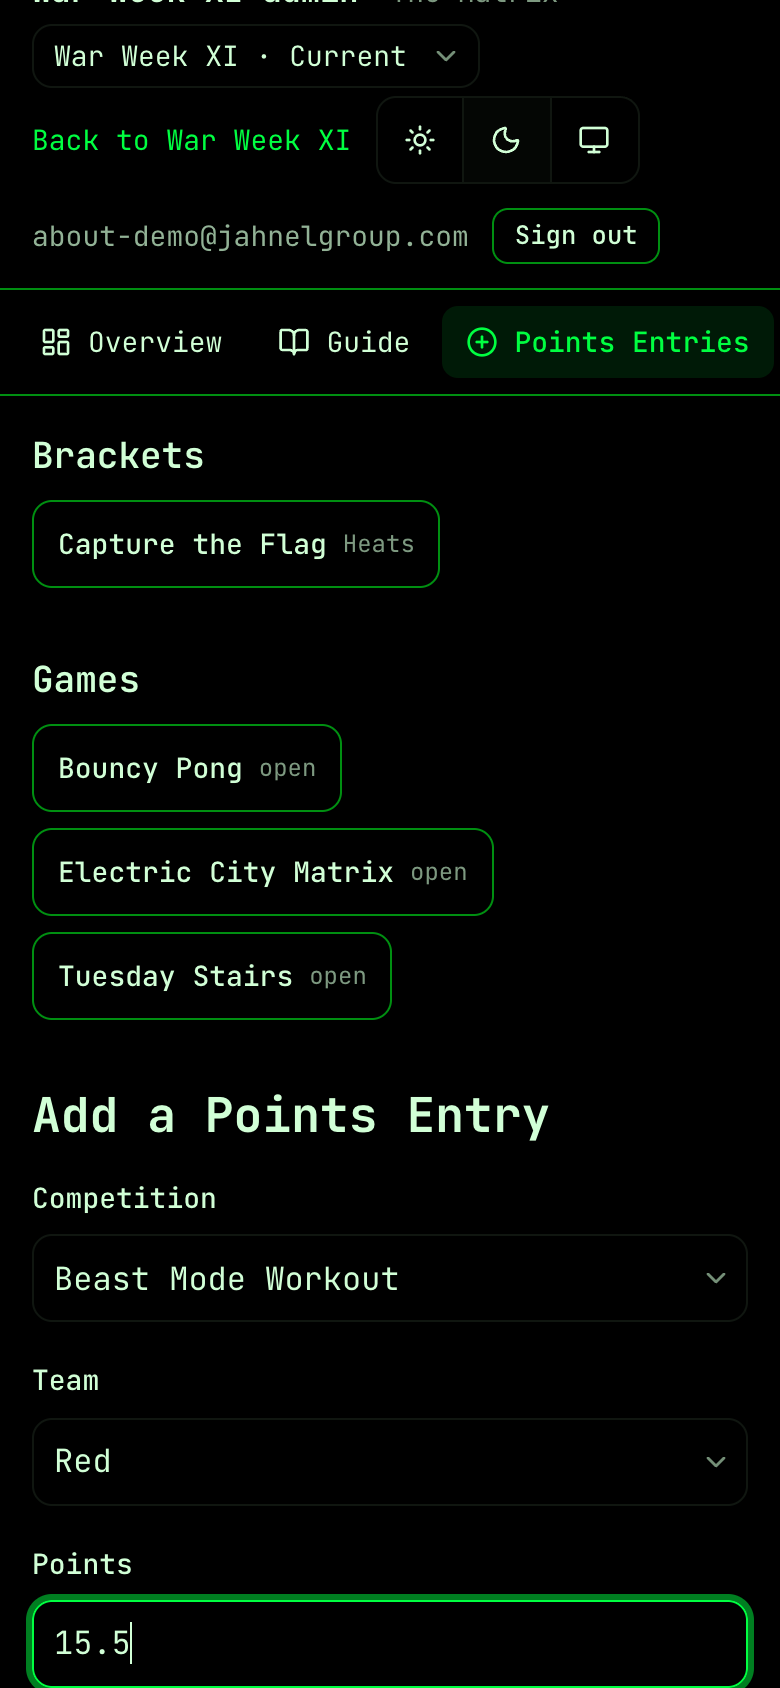
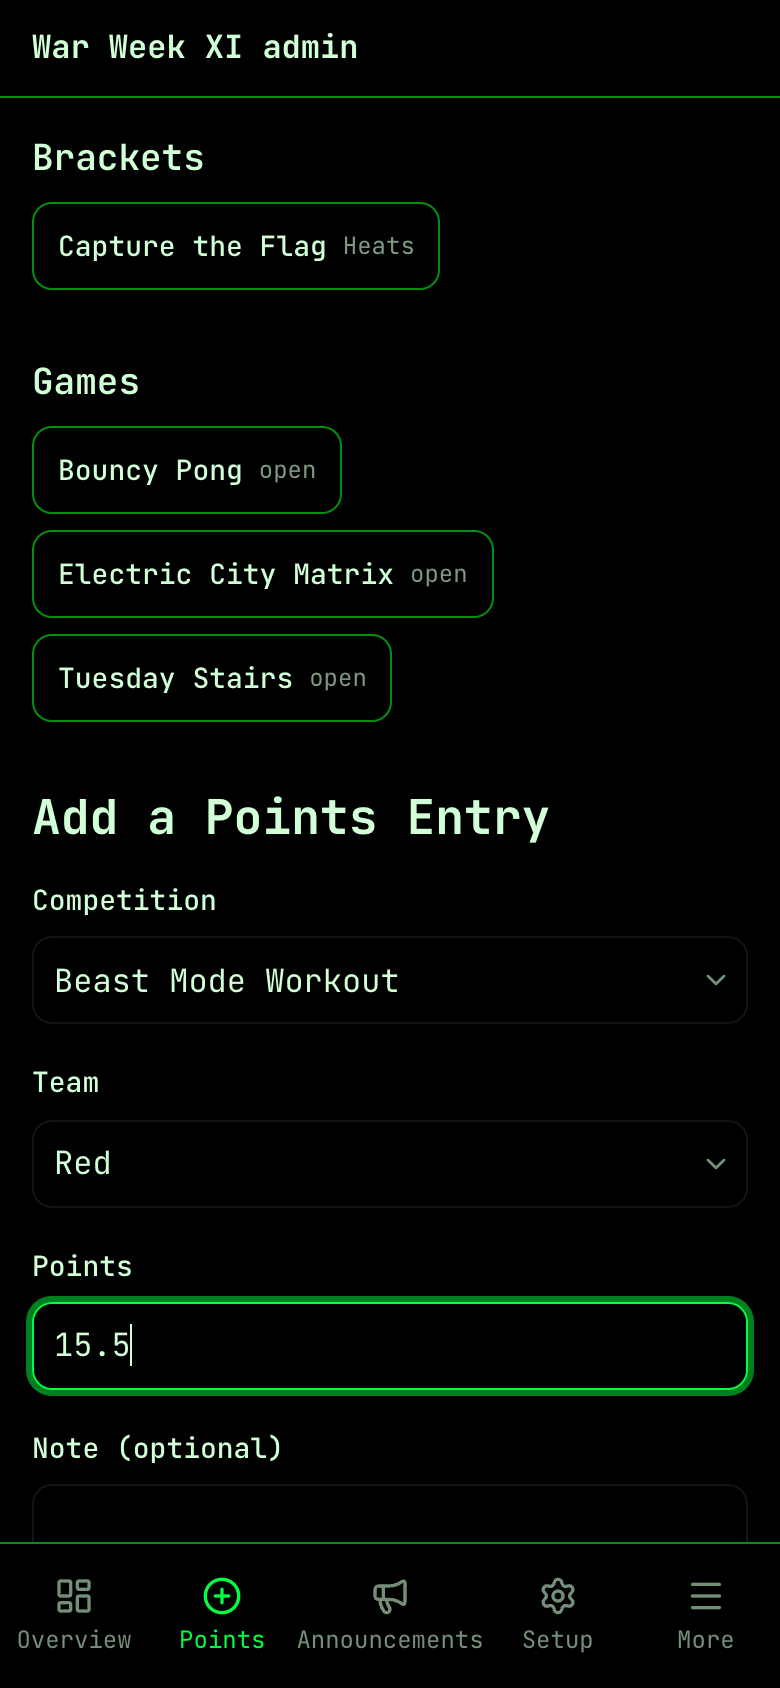
feat(regression-r5): epic-wide admin phone check; guide and /about updated (DE)

diff --git a/src/lib/about.ts b/src/lib/about.ts
@@ -47,7 +47,7 @@ export const ABOUT_FEATURES = [
   {
     slug: "organizer-setup",
     title: "Organizer setup, no code",
-    text: "War Week, Days, Teams, roster, Competitions, schedule and FAQ are all Organizer screens under Admin. Organizers can hand a Competition to its Hosts, who see just that Competition and enter its points themselves. Next year's edition takes an afternoon, not a code editor.",
+    text: "War Week, Days, Teams, roster, Competitions, schedule and FAQ are all Organizer screens under Admin. Organizers can hand a Competition to its Hosts, who see just that Competition and enter its points themselves. Admin works from a phone too, with a bar of sections along the bottom and each Setup row opening in a Sheet. Next year's edition takes an afternoon, not a code editor.",
     alt: "The Admin Setup screen listing War Week, Days, Teams, Competitions, Schedule and FAQ.",
   },
   {
@@ -71,7 +71,7 @@ export const ABOUT_FEATURES = [
   {
     slug: "brackets",
     title: "Brackets for knockouts and Heats",
-    text: "Choose a Competition's Format — Single elimination or Heats — when you add it, land straight on its Bracket setup, pick its Entrants (Teams, Participants, or Squads: named groups from one Team whose points go to that Team) and Generate a Bracket, or draw its Seed Positions By Standings. The Bracket reads as a tree on the Competition page: Rounds left to right for single elimination, or a box per Heat with advancers highlighted, one Round at a time on a phone; a List toggle keeps the old view. Recording or reporting a Heat's result opens a dialog centered on a screen and a bottom sheet on a phone. Finalize turns the Bracket's placings straight into Points Entries, and the Bracket gets its own Finale for the projector. Flip on \"Participants can enroll\" and players add themselves as Entrants instead of the Host typing every name in.",
+    text: "Choose a Competition's Format — Single elimination or Heats — when you add it, land straight on its Bracket setup, pick its Entrants (Teams, Participants, or Squads: named groups from one Team whose points go to that Team) and Generate a Bracket, or draw its Seed Positions By Standings. The Bracket reads as a tree on the Competition page: Rounds left to right for single elimination, or a box per Heat with advancers highlighted and its time and place, one Round at a time on a phone; a List toggle keeps the old view. Recording or reporting a Heat's result opens a dialog centered on a screen and a bottom sheet on a phone. Finalize turns the Bracket's placings straight into Points Entries, and the Bracket gets its own Finale for the projector. Flip on \"Participants can enroll\" and players add themselves as Entrants instead of the Host typing every name in.",
     alt: "A Bracket shown as a tree on its Competition page: Rounds joined by lines, with results filled in live.",
   },
   {

diff --git a/e2e/regression-r5.spec.ts b/e2e/regression-r5.spec.ts
@@ -950,3 +950,70 @@ test("r5 38 Escape keeps chosen Entrants; Tree shows a Heat's place; Format help
     await deleteXiCompetition(name);
   }
 });
+
+const EPIC_PAGES = [
+  { path: "/admin", slug: "overview", hostSees: true },
+  { path: "/admin/points", slug: "points", hostSees: true },
+  { path: "/admin/setup/teams", slug: "teams", hostSees: false },
+  { path: "/admin/setup/competitions", slug: "competitions", hostSees: true },
+  { path: "/admin/setup/war-week", slug: "war-week", hostSees: false },
+  { path: "/admin/announcements", slug: "announcements", hostSees: true },
+  { path: "/admin/awards", slug: "awards", hostSees: false },
+];
+
+test("r5 epic admin pages at 375 and 1280, as Organizer and Host", async ({
+  context,
+  page,
+}, testInfo) => {
+  test.setTimeout(180_000);
+  const competitionId = await xiCompetitionId("Pool");
+  const refusal = page.getByRole("heading", {
+    name: "Organizers and Hosts only.",
+  });
+
+  async function visit(role: "organizer" | "host") {
+    for (const viewport of [PHONE, DESKTOP]) {
+      await page.setViewportSize(viewport);
+      for (const { path, slug, hostSees } of EPIC_PAGES) {
+        await page.goto(path);
+        const sees = role === "organizer" || hostSees;
+        const label = `${role} ${path} at ${viewport.width}`;
+        if (sees) {
+          await expect(refusal, label).toHaveCount(0);
+          await expect(page.locator("main").first(), label).toBeVisible();
+          if (viewport.width === PHONE.width) {
+            await expect(adminBar(page), label).toHaveCount(1);
+            expect(
+              await page.evaluate(
+                () => document.documentElement.scrollWidth <= window.innerWidth,
+              ),
+              `${label} scrolls sideways`,
+            ).toBe(true);
+          }
+        } else {
+          await expect(refusal, label).toBeVisible();
+        }
+        await shoot(page, testInfo, `${role}-${slug}-${viewport.width}`, true);
+      }
+    }
+  }
+
+  try {
+    await asOrganizer(context);
+    await visit("organizer");
+
+    await runQuery(
+      `insert into competition_host (competition_id, email) values ($1, $2)
+       on conflict do nothing`,
+      [competitionId, E2E_HOST_EMAIL],
+    );
+    await context.clearCookies();
+    await asHost(context);
+    await visit("host");
+  } finally {
+    await runQuery(
+      `delete from competition_host where competition_id = $1 and email = $2`,
+      [competitionId, E2E_HOST_EMAIL],
+    );
+  }
+});

diff --git a/docs/maintainers-guide.md b/docs/maintainers-guide.md
@@ -178,6 +178,16 @@ Organizer screens cover it. Sign in and go to `/admin`:
   screen's scheme — each picks their own Display (Light, Dark or System)
   from the header menu (the phone More Sheet, the desktop TopNav, or the
   Admin header).
+- **On a phone**, the admin sections are a bar fixed to the bottom of the
+  screen (Overview, Points, Announcements, Setup, More); More opens a Sheet
+  with the other sections you can see, the edition switcher, Display and
+  your account. From `md` up it is the side column and header as before.
+  The sections live in `src/lib/admin-sections.ts`.
+- **Setup rows open in a Sheet.** On Teams & roster and Competitions, each
+  row is one "Edit <name>" button that opens its form in a
+  `ResponsiveSheetDialog`, with Save and Delete in a sticky footer; "Add …"
+  opens the empty form. "Assign Hosts" (the Hosts field) is inside the
+  Competition's Sheet.
 - **`/admin/organizers`**: the Organizer list (see
   [Add an Organizer or assign Hosts](#add-an-organizer-or-assign-hosts)).
 - **`/admin/points`**, **`/admin/standings`** (Run the Finale: "Open Finale" at closing ceremonies, and "Finale: <Competition>" for each finalized Bracket),
@@ -429,6 +439,17 @@ Notes:
   (a centered Dialog at `lg` and up, a bottom Sheet below) — live in
   `src/components/`. Reach for one of those before building a new control.
   Only `EntityCombobox` does search and chips.
+- Below `sm`, every admin control is at least 44px tall and wide
+  (`min-h-11 min-w-11 sm:min-h-0 sm:min-w-0`), the pattern `Input`, the
+  combobox and the Setup buttons follow. The shadcn select trigger's
+  default height is now 44px below `sm` and 36px from `sm` (an edit in
+  `ui/select.tsx`), so it sits level with an `Input`, and its list opens
+  below the trigger rather than over the field above it.
+- A long admin form puts its submit row in `StickyFormActions`
+  (`src/components/sticky-form-actions.tsx`): below `md` it sticks above the
+  admin section bar so Save stays in reach; from `md` it sits in the flow.
+  Give the form `pb-*` and its fields `scroll-mb-*` so a focused field is
+  not hidden under it.
 - Popups portal into the themed root through `ThemeRoot`, which is wired
   into `ui/popover`, `ui/select`, `ui/combobox`, `ui/alert-dialog`,
   `ui/dialog` and `ui/sheet`, so they keep the War Week's Appearance Theme.
